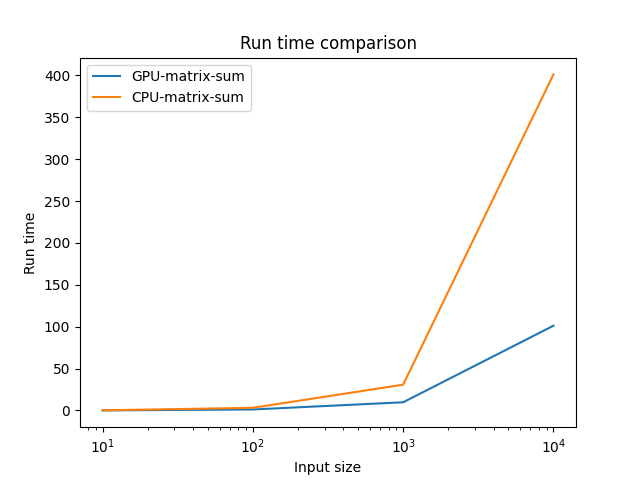
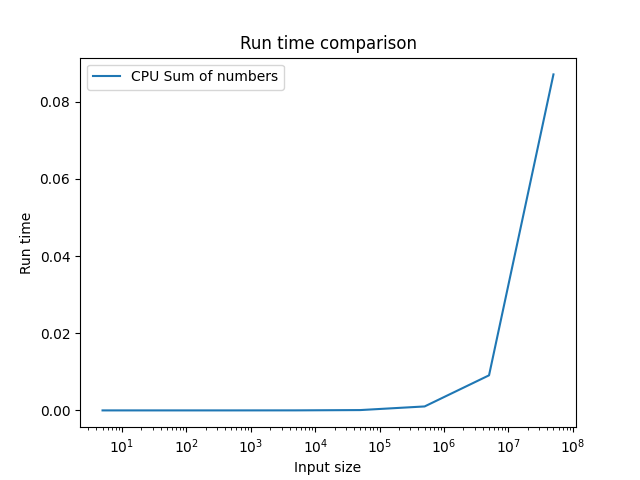
full version that compiles a c-program and runs it with 8 different input sizes and visualizes thier run times in pyplot

diff --git a/AutomationAndBenchmarking/benchmark.py b/AutomationAndBenchmarking/benchmark.py
@@ -10,16 +10,14 @@ directory = "MatrixAlgorithms/"
 source_files = [os.path.join(directory, name) for name in os.listdir(directory) if name.endswith(".c")]
 binary_path = directory + "binary"
 compile_command = ["gcc", "-o", binary_path] + source_files
-data_save_file = "DummyData/RandomData.csv"
-number_count = 5
+data_save_file = "DummyData/RandomData2.csv"
+input_sizes = [5, 50, 500, 5_000, 50_000, 500_000, 5_000_000, 50_000_000]
 
-
-# Run C-program to generate data
 try:
-    # subprocess.run(compile_command, check=True)
-    # subprocess.run([binary_path, data_save_file, str(number_count)], check=True)
-    # os.remove(binary_path)
-    pass
+    subprocess.run(compile_command, check=True)
+    for input_size in input_sizes:
+        subprocess.run([binary_path, data_save_file, str(input_size)], check=True)
+    os.remove(binary_path)
 except FileNotFoundError as e:
     print(f"File not found error: {e}")
     exit()
@@ -33,25 +31,3 @@ except Exception as e:
 
 data = structure.CSVDataStructure(data_save_file)
 visualize_csv(data)
-exit()
-
-
-# # Visualize data with matplotlib
-# with open(data_save_file, 'r') as file:
-#     csv_reader = csv.reader(file)
-#     for row in csv_reader:
-#         numbers = list(map(int, row))
-#         x = list(range(number_count))
-#         pyplot.plot(x, numbers)
-
-x1 = [1, 2, 3]
-y1 = [1, 2, 3]
-x2 = [3, 2, 1]
-y2 = [1.1, 2.1, 3.1]
-pyplot.plot(x1, y1)
-pyplot.plot(x2, y2)
-
-pyplot.xticks(list(range(number_count)))
-pyplot.ylabel("Number Generated")
-pyplot.title(str(number_count) + " Random Numbers")
-pyplot.savefig("Diagrams/output_plot.png")

diff --git a/AutomationAndBenchmarking/csv_data_structure.py b/AutomationAndBenchmarking/csv_data_structure.py
@@ -9,14 +9,17 @@ class CSVDataStructure:
                 self.__add_line(line)
 
     def __add_line(self, line: str):
-        if len(line) == 0: return
+        if not line: return
         algorithm_name, input_size, run_time = [value.strip() for value in line.rstrip('\n').split(',')]
-        
         input_size = float(input_size)
+        run_time = float(run_time)
+        
+        if algorithm_name in self.get_algorithms() and input_size in self.get_input_sizes():
+            return
+
         if input_size not in self.__input_sizes:
             self.__input_sizes.append(input_size)
 
-        run_time = float(run_time)
         if algorithm_name in self.__run_times:
             self.__run_times[algorithm_name].append(run_time)
         else: 

diff --git a/MatrixAlgorithms/program.c b/MatrixAlgorithms/program.c
@@ -20,7 +20,7 @@ int main(int argc, char *argv[]) {
     char elapsed_time_string[64];
 
     if (argc < 3) {
-        printf("Usage: %s <file_path.csv> <number_count>\n", argv[0]);
+        printf("Usage: %s <save_file_path.csv> <number_count>\n", argv[0]);
         return 0;
     }
 
@@ -40,7 +40,7 @@ int main(int argc, char *argv[]) {
 
     file = get_csv(save_file_name);
     if (file == NULL) return 0;
-    write_to_csv(file, "Sum of numbers", number_count_string, elapsed_time_string);
+    write_to_csv(file, "CPU Sum of numbers", number_count_string, elapsed_time_string);
     fclose(file);
 
     return 0;

diff --git a/MatrixAlgorithms/data_writer.c b/MatrixAlgorithms/data_writer.c
@@ -2,15 +2,6 @@
 #include <stdlib.h>
 #include "data_writer.h"
 
-FILE *create_csv(char *csvPath) {
-    FILE *csvFile;
-    csvFile = fopen(csvPath, "w");
-    if (csvFile == NULL) {
-        fprintf(stderr, "Unable to open file for writing.\n");
-    }
-    return csvFile;
-}
-
 FILE *get_csv(char *csvPath) {
     FILE *csvFile;
     csvFile = fopen(csvPath, "a");

diff --git a/MatrixAlgorithms/data_writer.h b/MatrixAlgorithms/data_writer.h
@@ -1,5 +1,4 @@
 #include <stdio.h>
 
-FILE *create_csv(char *csvPath);
 FILE *get_csv(char *csvPath);
 void write_to_csv(FILE *file, char algorithm_name[], char input_size[], char run_time[]);
